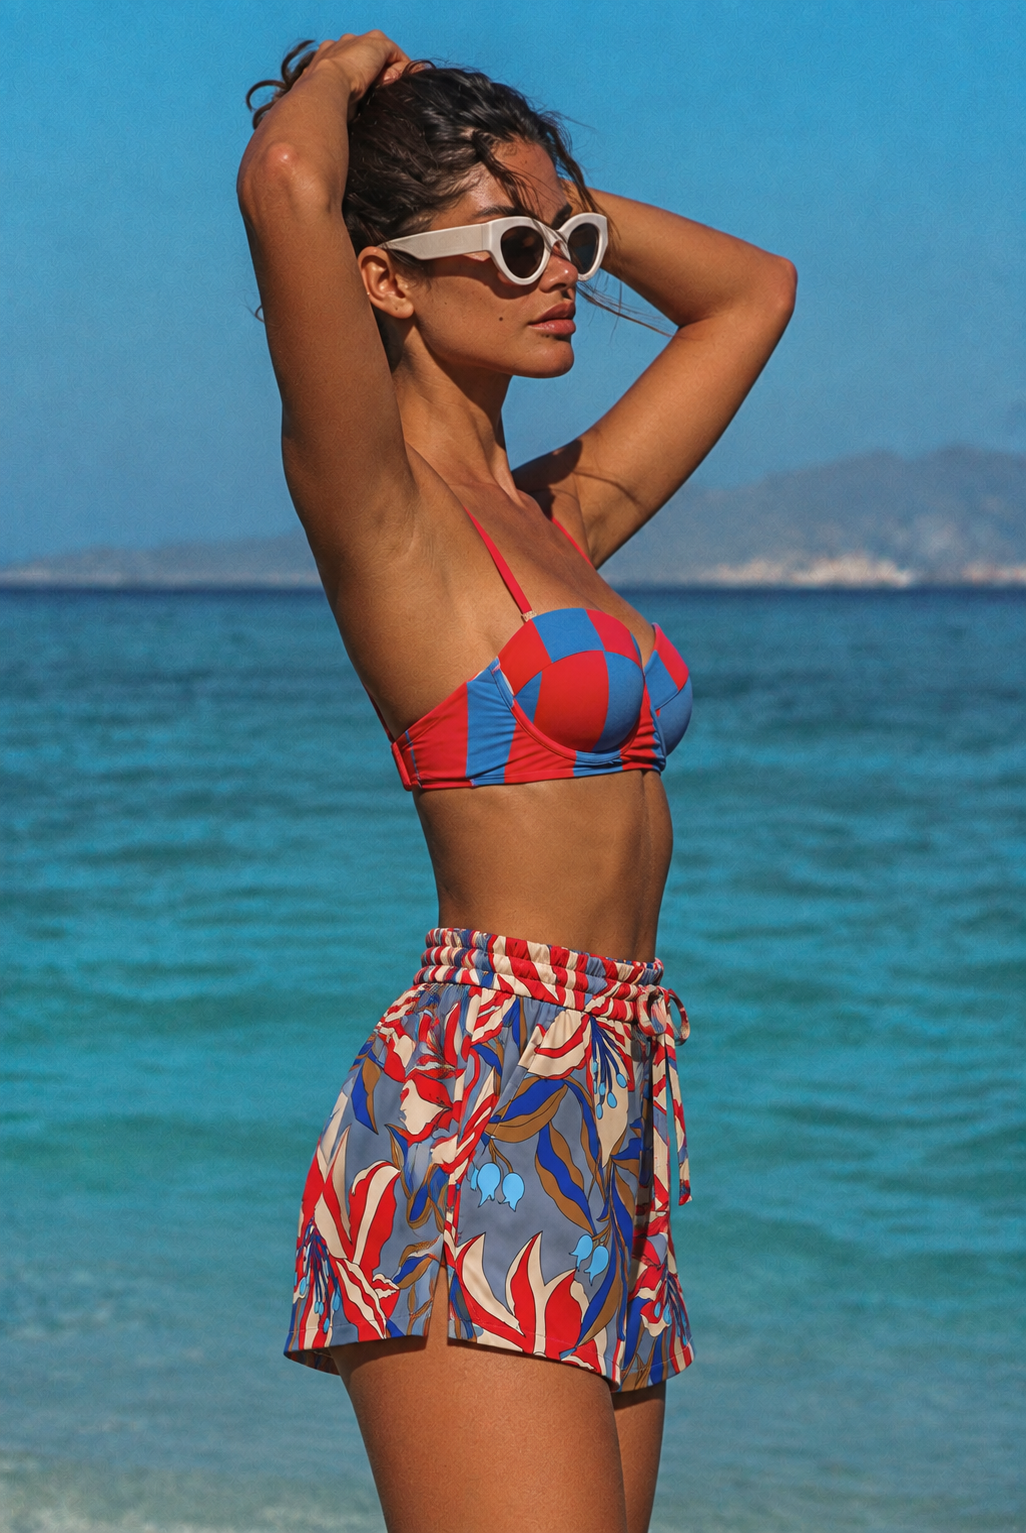
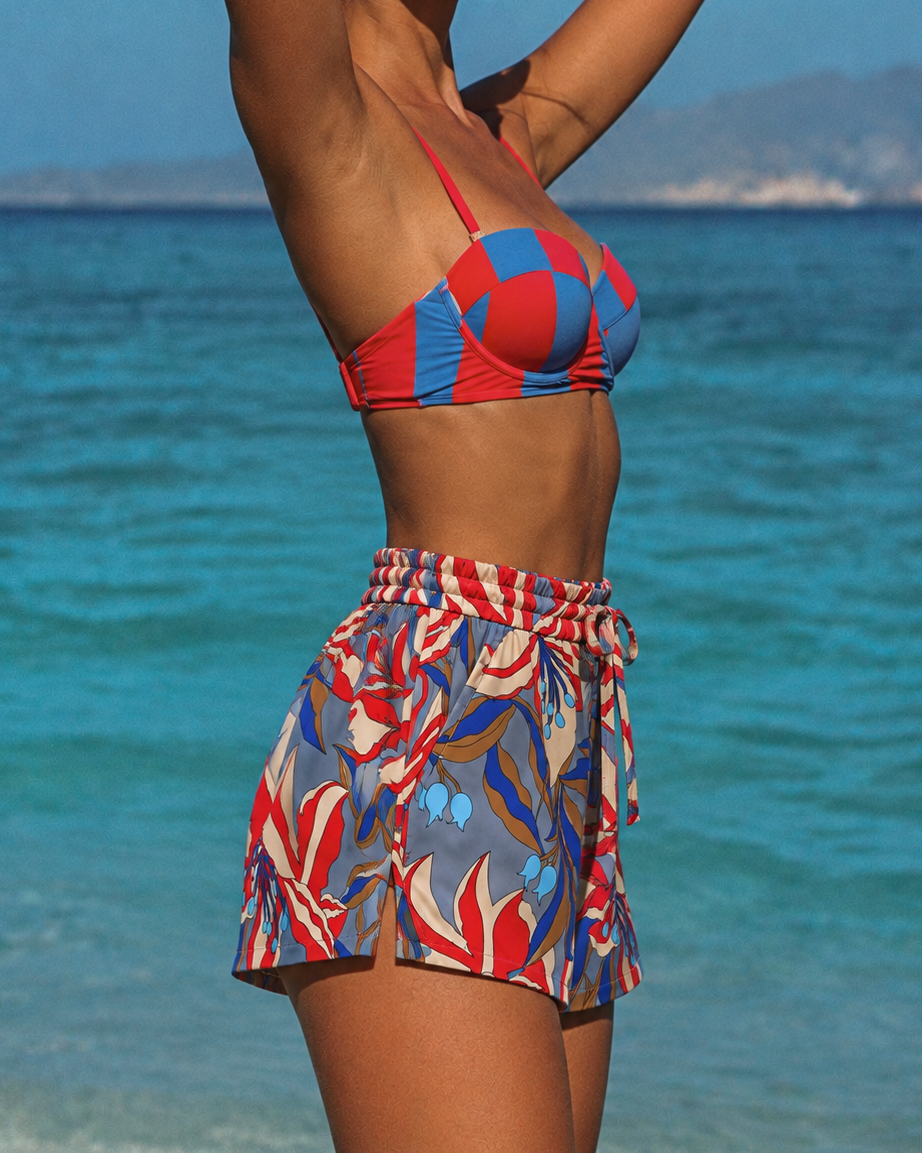
Crop Yana Shorts lifestyle photos so the shorts are the focus
Claude-Session: https://claude.ai/code/session_01MLsA5webmyPusJuUBWrQT8

The cover and gallery crop showed mostly bikini top with the shorts barely
in frame, reading as a swimwear ad rather than a shorts listing. Cropped
all three on-model photos (front/side/back) tighter so the shorts fill the
frame, matching the same fix used earlier for Agata Pants.

diff --git a/index.html b/index.html
@@ -1942,7 +1942,7 @@ footer{padding:clamp(40px,6vw,72px) clamp(16px,4vw,56px) 28px}
     olgatop:{title:"olgatop_h",fabric:["silk_thin"],back:["#/olga","olga_h"],vh:"otv_h",imgs:[["ot0","cover","50% 20%","ota0"],["ot1","","","ota1"],["ot2","","","ota2"],["ot3","","","ota3"]],variants:[["ot1","ota1"],["ov16","ova16"],["ot5","ota5"],["ot4","ota4"],["ov15","ova15"]],colors:[["ot0","ota0"],["ot1","ota1"],["ot4","ota4"],["ot5","ota5"],["ov15","ova15"]],texts:["ot_t1","ot_t2"],price:1200000,predict:["mp_pl","ot_pt"]},
     lera:{title:"lera_h",fabric:["silk_dense"],back:["#/middle","n_m"],vh:"lerav_h",imgs:[["lm2","cover","50% 30%","lera0"],["le1","","","la1"],["le2","","","la2"],["le3","","","la3"]],variants:[["le4","lera1"],["le5","lera2"],["le6","lera3"],["le7","lera4"],["le8","lera5"],["le9","lera6"],["le10","lera7"]],texts:["lr1","lr2"],price:2500000,predict:["mp_pl","lr_pt"]},
     lerablouse:{title:"lerablouse_h",fabric:["chiffon"],back:["#/middle","n_m"],vh:"lerablousev_h",imgs:[["lrb1","cover","50% 15%","lrba1"],["lrb2","","","lrba2"],["lrb3","","","lrba3"]],variants:[["lrb4","lrba4"],["lrb5","lrba5"],["lrb6","lrba6"],["lrb7","lrba7"],["lrb8","lrba8"],["lrb9","lrba9"],["lrb10","lrba10"],["lrb11","lrba11"]],colors:[["lrb4","lrba4"],["lrb5","lrba5"],["lrb6","lrba6"],["lrb7","lrba7"],["lrb8","lrba8"],["lrb9","lrba9"],["lrb10","lrba10"],["lrb11","lrba11"]],texts:["lerablouse_t1","lerablouse_t2"],price:1900000,predict:["mp_pl","lerablouse_pt"]},
-    yanashorts:{title:"yanashorts_h",fabric:["silk_dense"],back:["#/middle","n_m"],vh:"yanashortsv_h",imgs:[["ys1","cover","50% 12%","ysa1"],["ys2","","","ysa2"],["ys3","","","ysa3"],["ys4","","","ysa4"]],variants:[["ys4","ysa4"],["ys5","ysa5"],["ys6","ysa6"],["ys7","ysa7"],["ys8","ysa8"],["ys9","ysa9"],["ys10","ysa10"],["ys11","ysa11"],["ys12","ysa12"],["ys13","ysa13"]],colors:[["ys4","ysa4"],["ys5","ysa5"],["ys6","ysa6"],["ys7","ysa7"],["ys8","ysa8"],["ys9","ysa9"],["ys10","ysa10"],["ys11","ysa11"],["ys12","ysa12"],["ys13","ysa13"]],texts:["yanashorts_t1","yanashorts_t2"],price:1200000,predict:["mp_pl","yanashorts_pt"]},
+    yanashorts:{title:"yanashorts_h",fabric:["silk_dense"],back:["#/middle","n_m"],vh:"yanashortsv_h",imgs:[["ys1","cover","50% 50%","ysa1"],["ys2","","","ysa2"],["ys3","","","ysa3"],["ys4","","","ysa4"]],variants:[["ys4","ysa4"],["ys5","ysa5"],["ys6","ysa6"],["ys7","ysa7"],["ys8","ysa8"],["ys9","ysa9"],["ys10","ysa10"],["ys11","ysa11"],["ys12","ysa12"],["ys13","ysa13"]],colors:[["ys4","ysa4"],["ys5","ysa5"],["ys6","ysa6"],["ys7","ysa7"],["ys8","ysa8"],["ys9","ysa9"],["ys10","ysa10"],["ys11","ysa11"],["ys12","ysa12"],["ys13","ysa13"]],texts:["yanashorts_t1","yanashorts_t2"],price:1200000,predict:["mp_pl","yanashorts_pt"]},
     roza:{title:"roza_h",fabric:["silk"],back:["#/middle","n_m"],vh:"rzv_h",imgs:[["rz1","cover","50% 15%","roa1"],["rz2","","","roa2"],["rz10","","","roa10"],["rz11","","","roa11"],["rz12","","","roa12"]],variants:[["rz3","roa3"],["rz4","roa4"],["rz5","roa5"],["rz6","roa6"],["rz7","roa7"],["rz8","roa8"],["rz9","roa9"]],texts:["rz_t1","rz_t2"],price:2000000,predict:["mp_pl","rz_pt"]},
     karina:{title:"karina_h",fabric:["silk"],back:["#/middle","n_m"],imgs:[["dove","cover","50% 25%","ka0"],["kd1","","","la1"],["kd2","","","la2"],["kd3","","","la3"]],variants:[["kv1","ka_kv1"],["kv2","ka_kv2"],["kv3","ka_kv3"],["kv4","ka_kv4"],["kv5","ka_kv5"],["kv6","ka_kv6"]],texts:["kp1","kp2","kp3","kp4"],price:2000000,predict:["mp_pl","kp_pt"]},
     mia:{title:"mia_h",fabric:["cotton"],imgs:[["mm","cover","50% 30%","ma0"],["mi1","","","ma1"],["mi2","","","ma2"],["mi3","","","ma3"]],variants:[["md1","ma_md1"],["md2","ma_md2"],["md3","ma_md3"],["mm","ma0"]],texts:["mp1","mp2"],link:["#/fabrics?cat=cotton","fab_cat_cotton"],price:1700000,predict:["mp_pl","mp_pt"]},
@@ -2159,7 +2159,7 @@ footer{padding:clamp(40px,6vw,72px) clamp(16px,4vw,56px) 28px}
   function moveLb(d){if(!lbList.length)return;lbI=(lbI+d+lbList.length)%lbList.length;lbShow()}
   function closeLb(){if(!lbOpen)return;lbOpen=false;var l=$("#lb");l.classList.remove("on");l.setAttribute("aria-hidden","true");document.body.style.overflow="";if(lbFrom&&lbFrom.focus)lbFrom.focus()}
   function middleHTML(){
-    var G=[["dove","ka0","50% 30%","cap_k","#/karina"],["lm2","lera0","50% 22%","cap_l","#/lera"],["lrb1","lrba1","50% 15%","cap_lb","#/lerablouse"],["ys1","ysa1","50% 12%","cap_ys","#/yanashorts"],["rz1","roa1","50% 15%","cap_rz","#/roza"],["obl0","obla0","50% 20%","cap_ob","#/olgablouse"],["ot0","ota0","50% 20%","cap_ot","#/olgatop"],["os0","osa0","50% 10%","cap_os","#/olgaskirt"],["ol4","oa4","50% 5%","cap_o","#/olga"],["vc01","vica01","50% 35%","cap_v","#/victoria"],["vp1","vpa0","50% 10%","cap_vp","#/victoriapants"],["vb1","vba1","50% 10%","cap_vb","#/victoriablouse"],["an1","ana1","50% 15%","cap_an","#/annushka"]],gal="";
+    var G=[["dove","ka0","50% 30%","cap_k","#/karina"],["lm2","lera0","50% 22%","cap_l","#/lera"],["lrb1","lrba1","50% 15%","cap_lb","#/lerablouse"],["ys1","ysa1","50% 50%","cap_ys","#/yanashorts"],["rz1","roa1","50% 15%","cap_rz","#/roza"],["obl0","obla0","50% 20%","cap_ob","#/olgablouse"],["ot0","ota0","50% 20%","cap_ot","#/olgatop"],["os0","osa0","50% 10%","cap_os","#/olgaskirt"],["ol4","oa4","50% 5%","cap_o","#/olga"],["vc01","vica01","50% 35%","cap_v","#/victoria"],["vp1","vpa0","50% 10%","cap_vp","#/victoriapants"],["vb1","vba1","50% 10%","cap_vb","#/victoriablouse"],["an1","ana1","50% 15%","cap_an","#/annushka"]],gal="";
     G.forEach(function(g){gal+='<a class="tile" href="'+g[4]+'"><div class="ph" role="img" aria-label="'+esc(t(g[1]))+'" style="--img:var(--i-'+g[0]+');--pos:'+g[2]+'"></div><p><span class="nm">'+esc(t(g[3]))+'</span><span class="go">'+esc(t("shop_now"))+'</span></p></a>'});
     return '<div class="page-wide"><article class="prose"><a class="back" href="#top">← '+esc(t("back"))+'</a><h1 tabindex="-1">'+esc(t("n_m"))+'</h1><p>'+esc(t("middle_p1"))+'</p><p>'+esc(t("middle_p2"))+'</p><p>'+esc(t("middle_p3"))+'</p><p>'+esc(t("middle_p4"))+'</p></article><div class="gal">'+gal+'</div></div>';
   }
